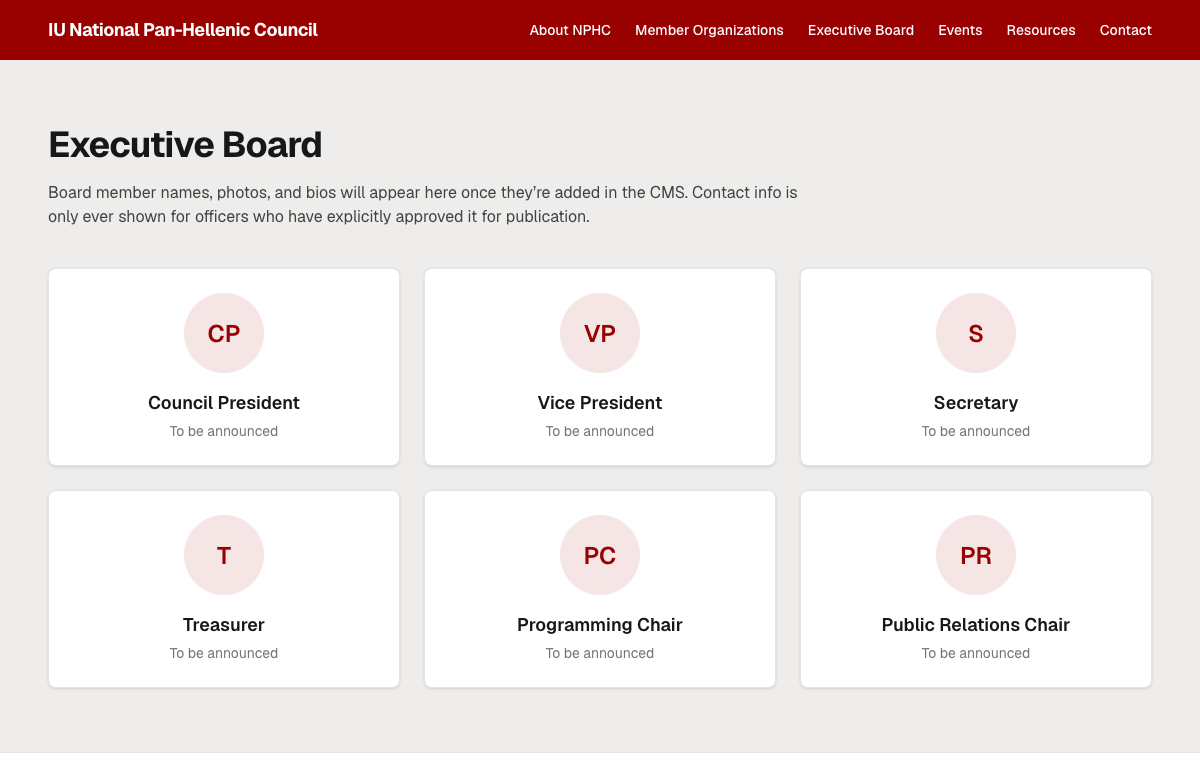
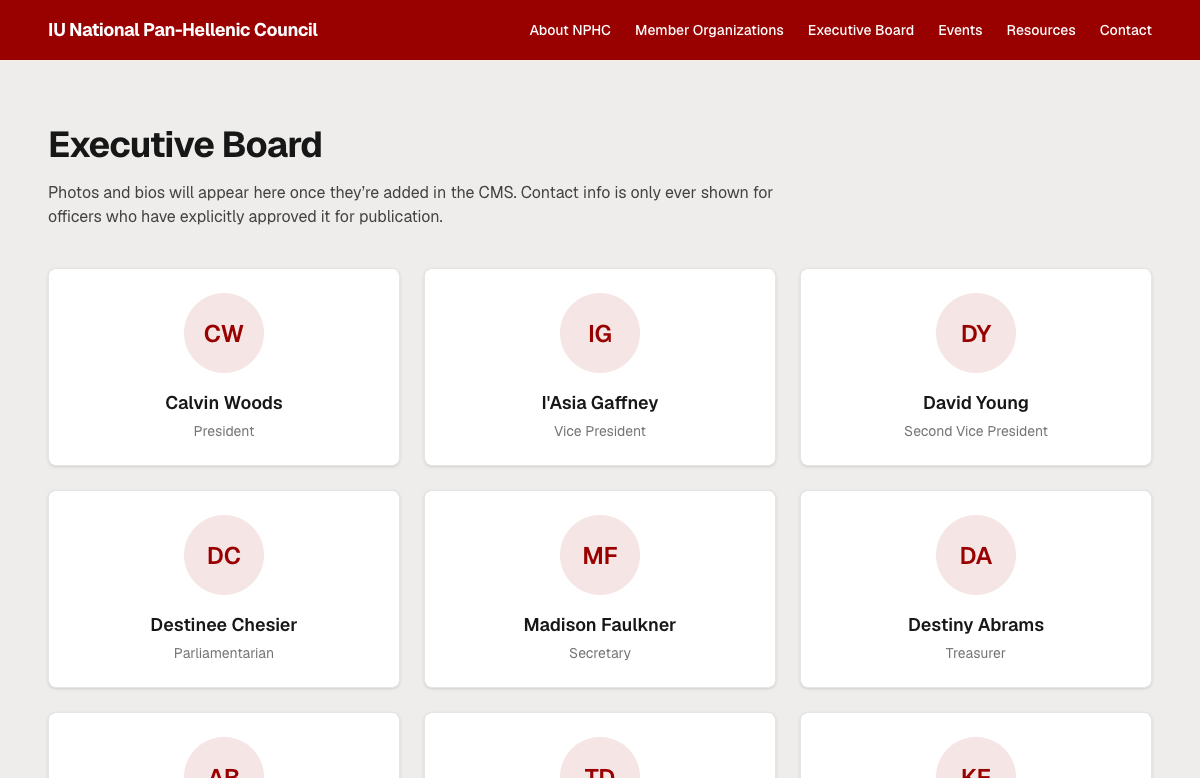
feat(exec-board): show real names alongside positions
Names provided by Jose 2026-07-14; no photos/bios/contact info yet
pending written consent (see officer schema's approvedForPublication gate).

diff --git a/src/data/officers.ts b/src/data/officers.ts
@@ -1,23 +1,24 @@
 /**
- * Static placeholder for the council's executive board. Deliberately has no
- * fabricated names, photos, or emails — real officer info (and the
- * publication-approval gate on contact info) belongs in Sanity once Phase 2
- * CMS wiring resumes. This just proves out the page layout and the "only
- * show contact info if approved for publication" pattern from the schema.
+ * Static placeholder for the council's executive board. Real names and
+ * positions, provided by Jose on 2026-07-14 — no photos, bios, or contact
+ * info yet (those still require written consent and belong in Sanity, see
+ * the officer schema's `approvedForPublication` gate, once Phase 2 CMS
+ * wiring resumes).
  */
 
 export type PlaceholderOfficer = {
+  name: string;
   position: string;
 };
 
 export const OFFICERS: PlaceholderOfficer[] = [
-  { position: "President" },
-  { position: "Vice President" },
-  { position: "Second Vice President" },
-  { position: "Parliamentarian" },
-  { position: "Secretary" },
-  { position: "Treasurer" },
-  { position: "Director of Academics" },
-  { position: "Director of Marketing" },
-  { position: "NPHC Liaison" },
+  { name: "Calvin Woods", position: "President" },
+  { name: "I'Asia Gaffney", position: "Vice President" },
+  { name: "David Young", position: "Second Vice President" },
+  { name: "Destinee Chesier", position: "Parliamentarian" },
+  { name: "Madison Faulkner", position: "Secretary" },
+  { name: "Destiny Abrams", position: "Treasurer" },
+  { name: "Ayana Bledsoe", position: "Director of Academics" },
+  { name: "Tylan Diggs", position: "Director of Marketing" },
+  { name: "Kymri Euell", position: "NPHC Liaison" },
 ];

diff --git a/src/app/exec-board/page.tsx b/src/app/exec-board/page.tsx
@@ -13,9 +13,9 @@ export default function ExecBoardPage() {
         Executive Board
       </h1>
       <p className="mt-4 max-w-3xl text-foreground/80">
-        Board member names, photos, and bios will appear here once they&rsquo;re
-        added in the CMS. Contact info is only ever shown for officers who
-        have explicitly approved it for publication.
+        Photos and bios will appear here once they&rsquo;re added in the CMS.
+        Contact info is only ever shown for officers who have explicitly
+        approved it for publication.
       </p>
 
       <div className="mt-10 grid gap-6 sm:grid-cols-2 lg:grid-cols-3">
@@ -28,15 +28,15 @@ export default function ExecBoardPage() {
               className="mx-auto flex h-20 w-20 items-center justify-center rounded-full bg-brand/10 text-2xl font-semibold text-brand"
               aria-hidden="true"
             >
-              {officer.position
+              {officer.name
                 .split(" ")
                 .map((word) => word[0])
                 .slice(0, 2)
                 .join("")}
             </div>
-            <h3 className="mt-4 text-lg font-semibold">{officer.position}</h3>
+            <h3 className="mt-4 text-lg font-semibold">{officer.name}</h3>
             <p className="mt-1 text-sm text-surface-foreground/60">
-              To be announced
+              {officer.position}
             </p>
           </div>
         ))}
